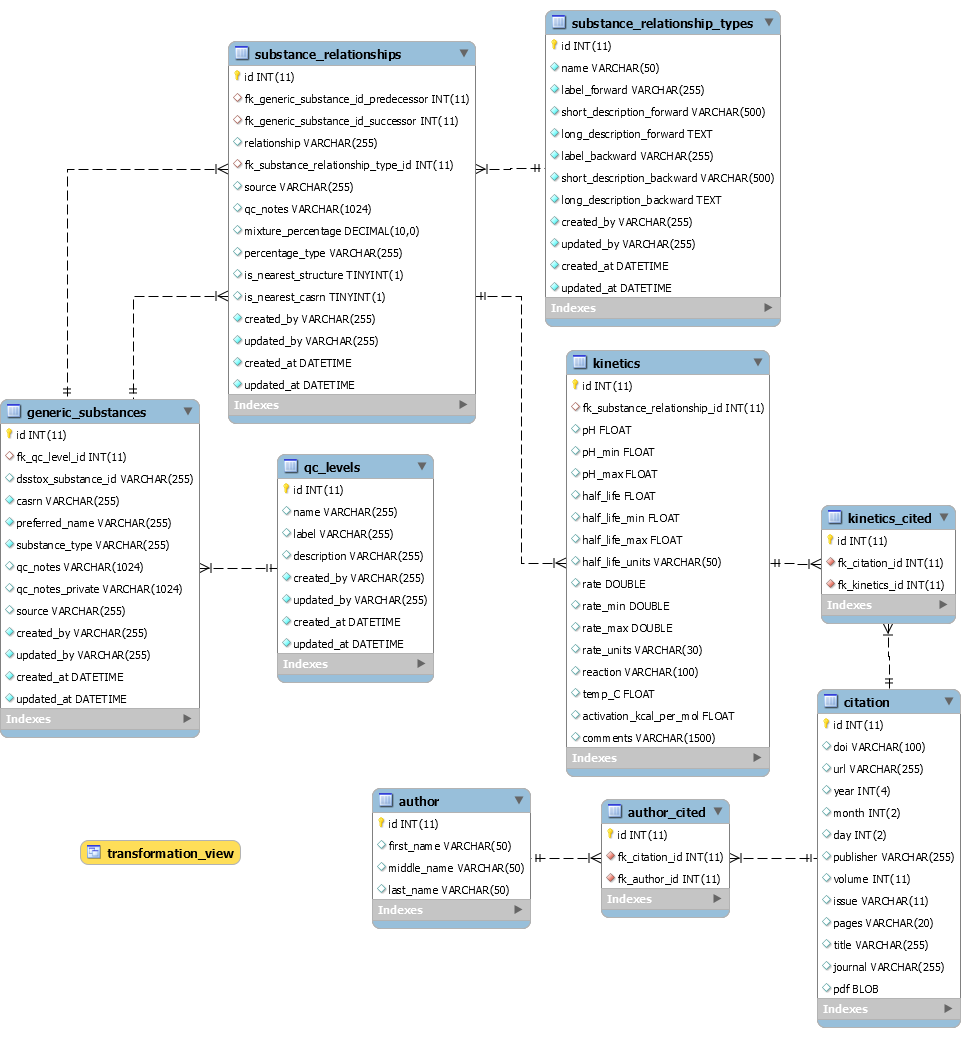
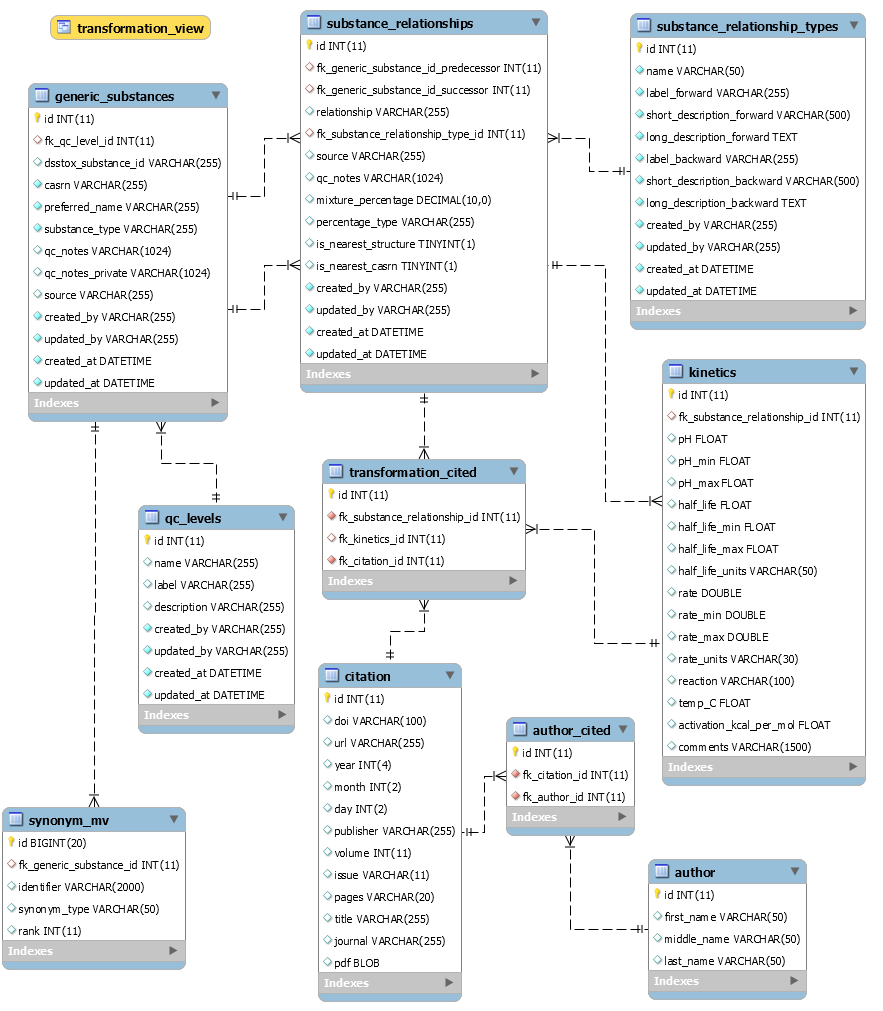
Added to the data model

Changed region(s): [[0.0, 0.0, 0.9785, 1.0], [0.0, 0.7972, 0.2446, 0.9812]]

diff --git a/flask-api/model.py b/flask-api/model.py
@@ -118,6 +118,27 @@ class SubstanceRelationshipTypesSchema(ma.SQLAlchemyAutoSchema):
         load_instance = True
 
 
+class SynonymMv(db.Model):
+    __tablename__ = 'synonym_mv'
+    id = db.Column(
+        db.Integer, primary_key=True,
+        autoincrement=True, nullable=False
+        )
+    fk_generic_substance_id = db.Column(
+        db.String, db.ForeignKey('generic_substances.id'),
+        nullable=True
+        )
+    identifier = db.Column(db.String)
+    synonym_type = db.Column(db.String)
+    rank = db.Column(db.Integer)
+
+
+class SynonymMvSchema(ma.SQLAlchemyAutoSchema):
+    class Meta:
+        model = SynonymMv
+        load_instance = True
+
+
 class GenericSubstances(db.Model):
     __tablename__ = 'generic_substances'
     id = db.Column(
@@ -160,6 +181,12 @@ class GenericSubstances(db.Model):
                 .fk_generic_substance_id_successor
             ]
         )
+    synonym_mv = db.relationship(
+        'SynonymMv',
+        foreign_keys=[
+            SynonymMv.fk_generic_substance_id
+            ]
+        )
 
 
 class GenericSubstancesSchema(ma.SQLAlchemyAutoSchema):
@@ -198,37 +225,34 @@ class QCLevelsSchema(ma.SQLAlchemyAutoSchema):
 
 author_cited = db.Table(
     'author_cited',
+    db.Column('id', db.Integer, primary_key=True,
+              autoincrement=True, nullable=False),
     db.Column(
         'fk_citation_id', db.Integer, db.ForeignKey('citation.id'),
-        primary_key=True
+        nullable=False
         ),
     db.Column(
         'fk_author_id', db.Integer, db.ForeignKey('author.id'),
-        primary_key=True
+        nullable=False
         )
     )
 
-journal_cited = db.Table(
-    'journal_cited',
+transformation_cited = db.Table(
+    'transformation_cited',
+    db.Column('id', db.Integer, primary_key=True,
+              autoincrement=True, nullable=False),
     db.Column(
-        'fk_citation_id', db.Integer, db.ForeignKey('citation.id'),
-        primary_key=True
-        ),
-    db.Column(
-        'fk_journal_id', db.Integer, db.ForeignKey('journal.id'),
-        primary_key=True
-        )
-    )
-
-kinetics_cited = db.Table(
-    'kinetics_cited',
-    db.Column(
-        'fk_citation_id', db.Integer, db.ForeignKey('citation.id'),
-        primary_key=True
+        'fk_substance_relationship_id', db.Integer,
+        db.ForeignKey('substance_relationships.id'),
+        nullable=False
         ),
     db.Column(
         'fk_kinetics_id', db.Integer, db.ForeignKey('kinetics.id'),
-        primary_key=True
+        nullable=True
+        ),
+    db.Column(
+        'fk_citation_id', db.Integer, db.ForeignKey('citation.id'),
+        nullable=False
         )
     )
 
@@ -281,7 +305,7 @@ class Citation(db.Model):
         )
     kinetics = db.relationship(
         'Kinetics',
-        secondary=kinetics_cited,
+        secondary=transformation_cited,
         lazy='subquery',
         backref=db.backref('citation', lazy=True)
         )
